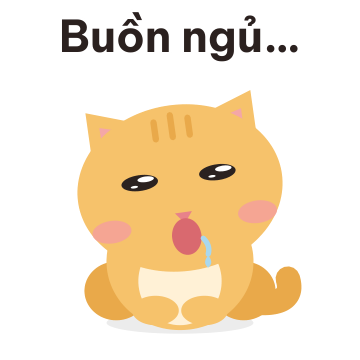
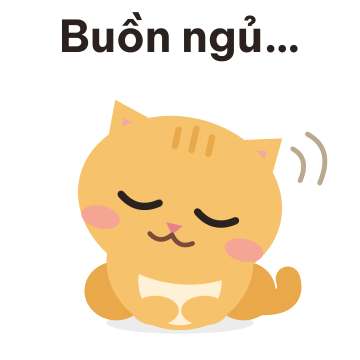
Buồn ngủ redesigned: nodding off with the head dropped, eyes shut, no yawn and no drool

diff --git a/docs/plans/assets/stickers/build_stickers.py b/docs/plans/assets/stickers/build_stickers.py
@@ -463,7 +463,7 @@ STICKERS = [
     ("01", "Chào buổi sáng!", lambda: cat(STRETCH_S, LOOK["wake"]), dict(scale=2.8, dy=-14)),
     ("02", "Sướng quá~", lambda: cat(STAND_F, LOOK["purr"])),
     ("03", "Cuộc sống mà.", lounging, dict(scale=2.5, dx=2, dy=8)),
-    ("04", "Buồn ngủ…", lambda: cat(SIT_F, dict(LOOK["drowsy"], lid=0.34, roll=-8, dy=8, droop=0.4, mouth="yawn", cheek=0.8)) + '<path d="M69.5 80.5 Q72.5 83.5 71.5 87" fill="none" stroke="#a9d8ee" stroke-width="2.2" stroke-linecap="round"/><path d="M71.5 87.5 Q69 90.5 71.5 92.5 Q74 90.5 71.5 87.5Z" fill="#a9d8ee"/>'),
+    ("04", "Buồn ngủ…", lambda: cat(SIT_F, dict(LOOK["rest"], lid=0.06, roll=13, dy=13, droop=0.5, mouth="smile", cheek=0.8)) + stroke_path("M106 44 q7 4 3 13 M112 38 q11 6 5 20", "#b9a98f", 2)),
     ("05", "Hừm.", lambda: cat(SIT_F, dict(LOOK["rest"], lid=0.06, roll=15, dy=-2, gx=-7, mouth="flat", cheek=0.4)) + puffs() + stroke_path("M10 60 l7 3 M8 70 l9 1", "#b9a98f", 2)),
     ("06", "Quá sức mèo rồi.", lambda: cat(STAND_F, LOOK["sad"])),
     ("08", "Làm chung nhé?", lambda: cat(STAND_F, dict(LOOK["curious"], roll=12, wide=0.6, cheek=0.7)) + paw(25, 94, 9, 10.5, -40, True) + arcs("M11 82 q-6 6 -2 14", "M5 76 q-8 9 -3 20")),

diff --git a/docs/plans/sticker-list.md b/docs/plans/sticker-list.md
@@ -9,7 +9,7 @@ Status: **Vinh chose a shortlist on 2026-11-12, dropped the three categories and
 |---|---|---|---|
 | 01 | Chào buổi sáng! | now | |
 | 02 | Ngủ ngon. | now | |
-| 03 | Buồn ngủ… | now, redrawn | a big yawn, eyes half open, a string of drool, no "z" and no sweat or tear drop (the "z" stays on "Ngủ ngon.") |
+| 03 | Buồn ngủ… | now, redrawn | nodding off: the head dropped to one side, eyes shut, a faint smile, two nod marks; **no yawn, no drool, no sweat drop, no "z"** (the yawn with the drool looked disgusting to Vinh; sketches of other ideas are in `assets/stickers/direction-v1/sleepy_options.png`) |
 | 04 | Thứ Sáu rồi! | new | |
 | 05 | **Yêu quá!** | new | was "Thương quá!" |
 | 06 | Cảm ơn nha! | now, redrawn | open shiny eyes and sparkles instead of the floating hearts |
